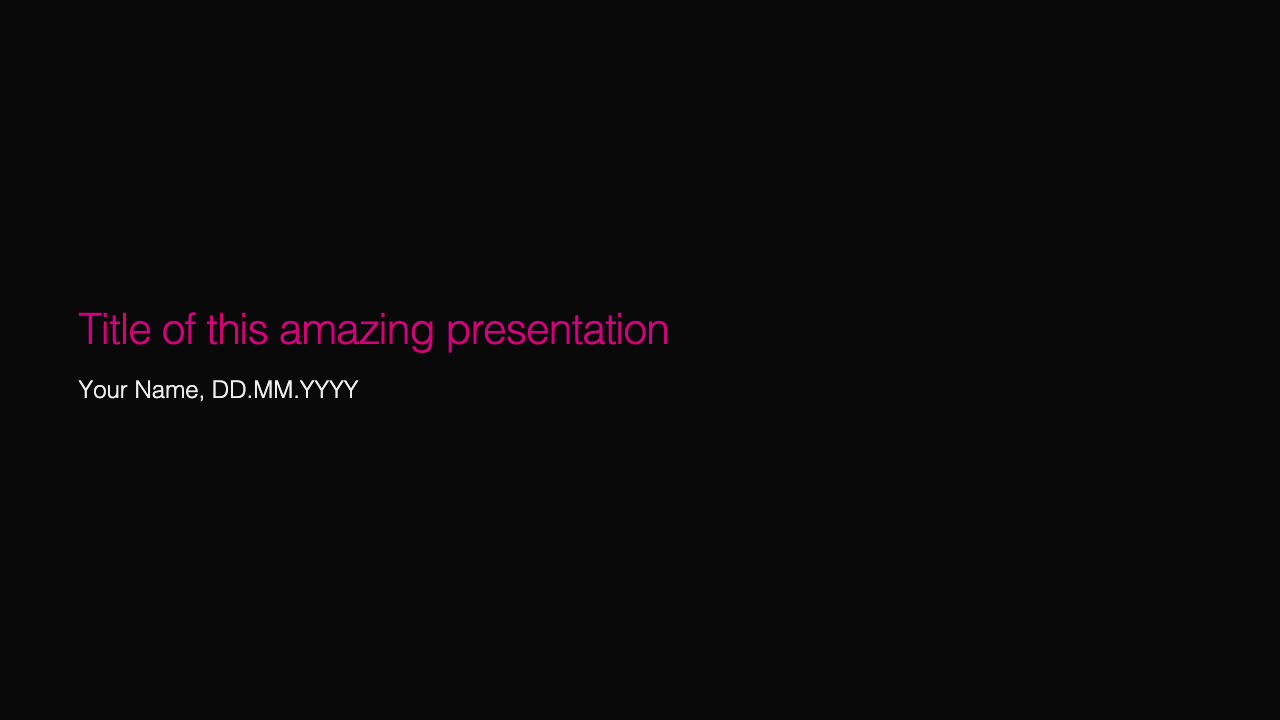
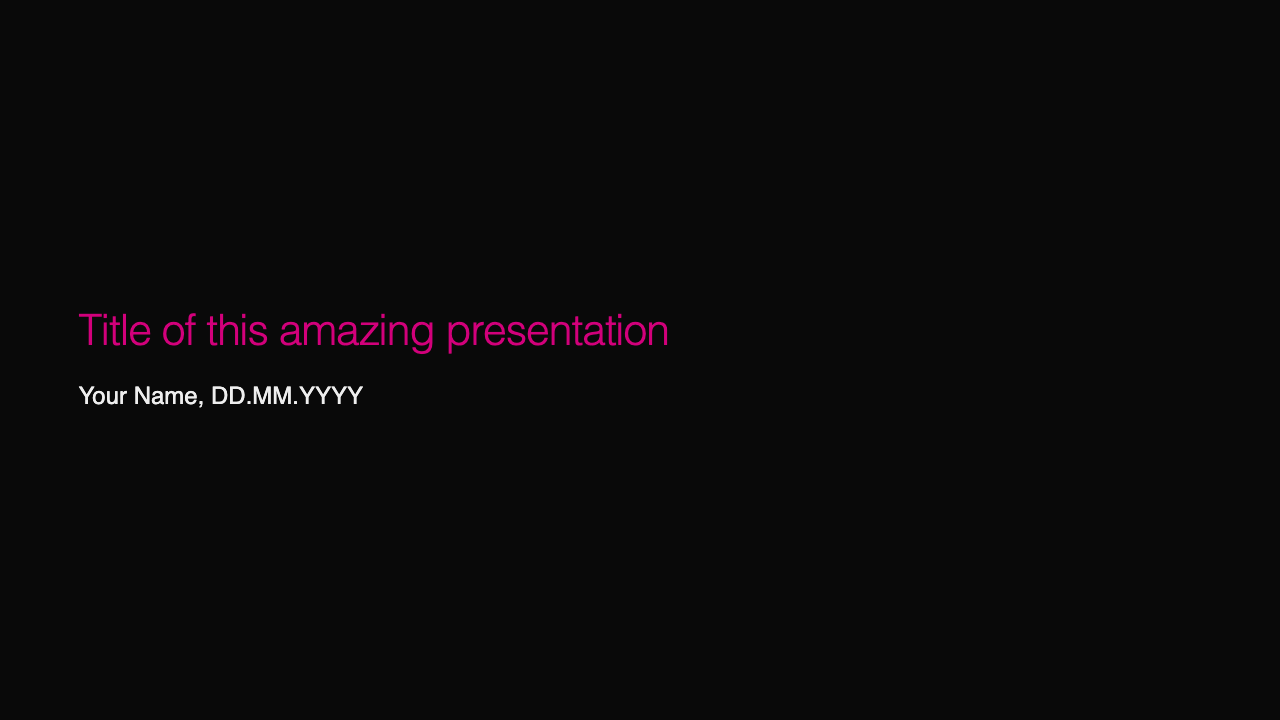
improved font weights and code in slides.md

diff --git a/marp/css/pink-dark.css b/marp/css/pink-dark.css
@@ -40,7 +40,8 @@
     --h2-line-height: 100%; /* line spacing */
     
     --text-size: 18pt;
-    --text-weight: 300;
+    --text-weight: 350;
+    --text-bold-weight: 600;
 
     --table-text-size: 14pt;
     --table-header-size: 16pt;
@@ -115,8 +116,7 @@ img {
 strong {
     /* bold */
     color: var(--text);
-    font-weight: inherit;
-    font-weight: 900;
+    font-weight: var(--text-bold-weight);
 }
 mjx-container {
     color: var(--text);
@@ -172,10 +172,10 @@ pre {
     color: var(--subtle);
 }
 .hljs-string {
-    color: var(--gold);
+    color: var(--subtle);
 }
 .hljs-title {
-    color: var(--foam);
+    color: var(--love);
 }
 .hljs-keyword {
     color: var(--pine);
@@ -190,10 +190,10 @@ pre {
     color: var(--love);
 }
 .hljs-number {
-    color: var(--gold);
+    color: var(--subtle);
 }
 .hljs-built_in {
-    color: var(--love);
+    color: var(--pine);
 }
 .hljs-params {
     color: var(--iris);

diff --git a/marp/css/pink.css b/marp/css/pink.css
@@ -39,7 +39,8 @@
     --h2-line-height: 100%; /* line spacing */
     
     --text-size: 18pt;
-    --text-weight: 300;
+    --text-weight: 350;
+    --text-bold-weight: 600;
 
     --table-text-size: 14pt;
     --table-header-size: 16pt;
@@ -114,8 +115,7 @@ img {
 strong {
     /* bold */
     color: var(--text);
-    font-weight: inherit;
-    font-weight: 900;
+    font-weight: var(--text-bold-weight);
 }
 mjx-container {
     color: var(--text);
@@ -171,10 +171,10 @@ pre {
     color: var(--subtle);
 }
 .hljs-string {
-    color: var(--gold);
+    color: var(--subtle);
 }
 .hljs-title {
-    color: var(--foam);
+    color: var(--love);
 }
 .hljs-keyword {
     color: var(--pine);
@@ -189,10 +189,10 @@ pre {
     color: var(--love);
 }
 .hljs-number {
-    color: var(--gold);
+    color: var(--subtle);
 }
 .hljs-built_in {
-    color: var(--love);
+    color: var(--pine);
 }
 .hljs-params {
     color: var(--iris);

diff --git a/marp/slides.md b/marp/slides.md
@@ -33,7 +33,6 @@ A list:
 ## The same can be done for h2. Let's try to fit a very long sentence, to see how the new line is generated
 
 
-
 ---
 
 # And now a table
@@ -65,8 +64,9 @@ And then you can also use `my_package` in a sentence.
 More code:
 ```python
 def my_function():
-	print('Hello')
-	print('World')
+  print('Hello')
+  a = 1
+  b = a + 2
 ```
 
 
